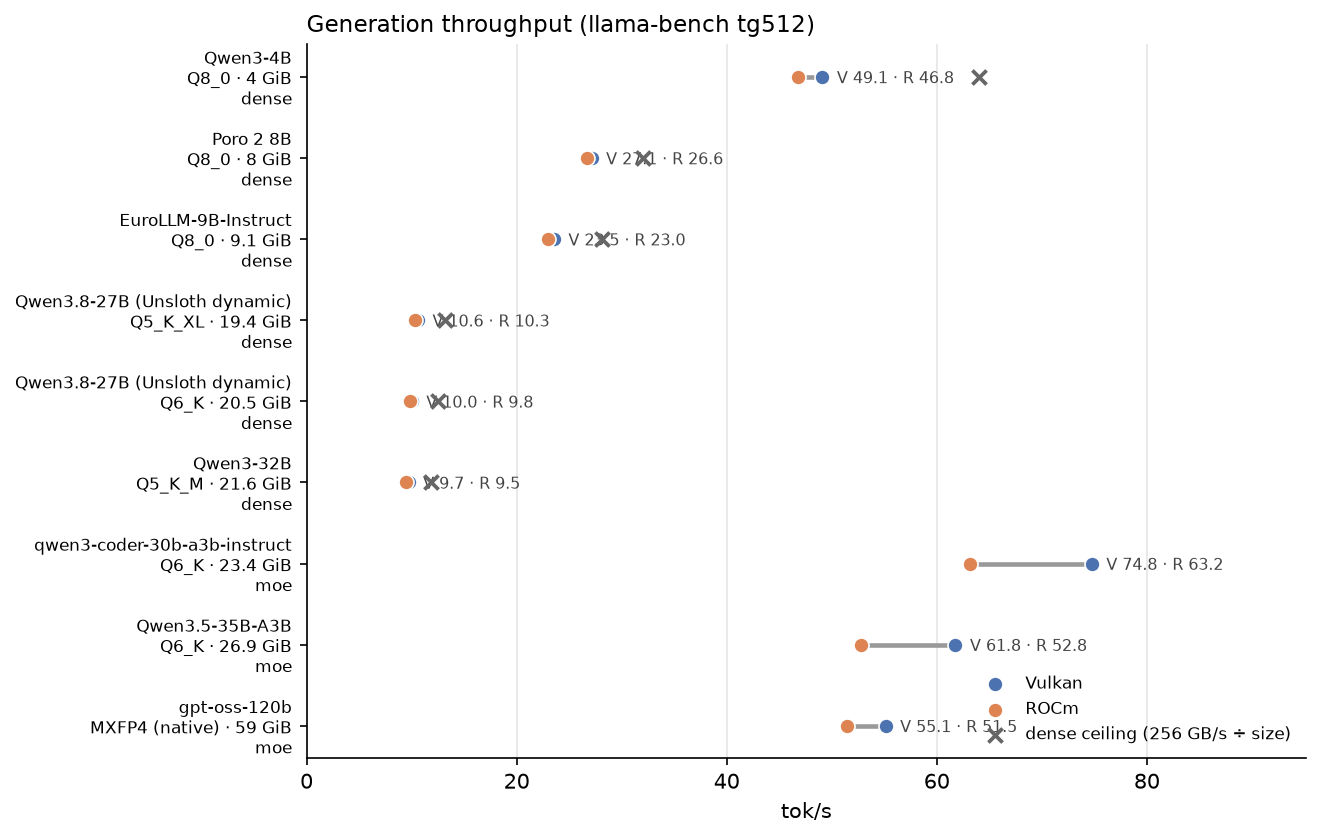
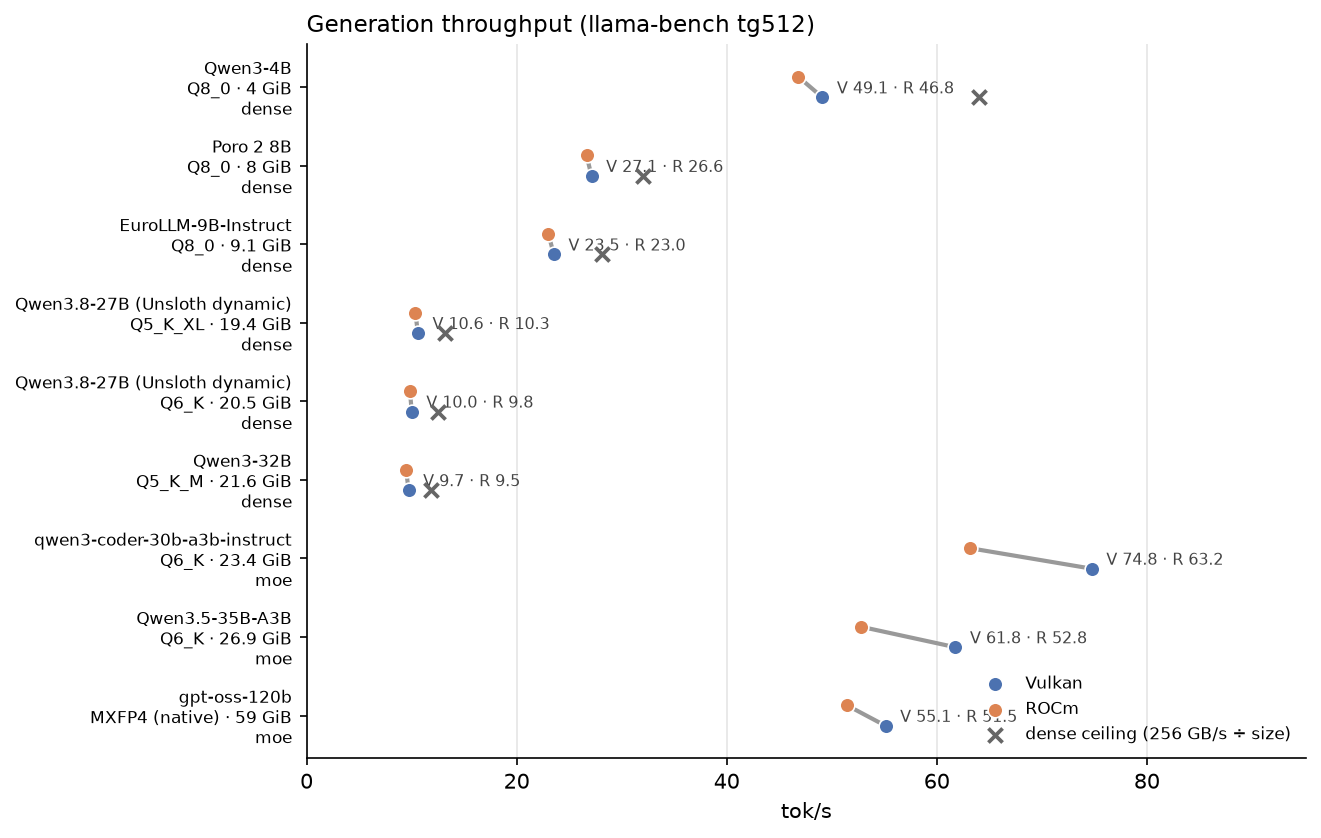
charts: offset the backends so a coincident pair cannot hide a series
Verified by decoding the PNGs: with both dots on the row centre,
tokens_per_watt.png drew 121 px of the Vulkan colour against 1049 px of ROCm —
Poro 2 8B (0.31 tok/s/W on both backends) and Qwen3-32B (0.11 on both) had the
ROCm dot sitting exactly on top of the Vulkan one. On a chart meant to compare
two backends that reads as "only ROCm was measured".

Vulkan now sits a fixed offset above the row centre, ROCm below, with the
connector joining the two dots, so the backend reads positionally as well as by
colour. After the fix every chart draws both series symmetrically (1130/1130 px
generation, 979/979 tokens-per-watt). tests/test_charts.py gains a case that
plots a coincident pair and asserts the two dots do not share a y.

diff --git a/scripts/make_charts.py b/scripts/make_charts.py
@@ -86,6 +86,13 @@ def row_label(cell, meta):
     return f"{name}\n{' · '.join(bits)}" + (f"\n{tier}" if tier in ("moe", "dense") else "")
 
 
+# The two backends sit slightly above/below the row centre. Without the offset a
+# coincident pair (Poro 2 8B is 0.31 tok/s/W on both backends; Qwen3-32B 0.11 on
+# both) is drawn one dot on top of the other and the lower series disappears —
+# which reads as "only one backend was measured".
+ROW_OFFSET = 0.13
+
+
 def dumbbell(ax, vals, cells, meta, metric, fmt):
     """One row per model: Vulkan and ROCm dots joined, values printed per row."""
     y = np.arange(len(cells))
@@ -93,15 +100,14 @@ def dumbbell(ax, vals, cells, meta, metric, fmt):
         pair = [(b, vals[(cell, b)][metric]) for b in BACKENDS if metric in vals.get((cell, b), {})]
         if len(pair) < 2:
             continue
-        xs = [v for _, v in pair]
-        ax.plot([min(xs), max(xs)], [i, i], color="#999999", lw=2.2, zorder=2,
-                solid_capstyle="round")
-        for b, v in pair:
-            ax.scatter([v], [i], s=52, color=COLORS[b], zorder=3,
+        pts = [(v, i + (ROW_OFFSET if b == "vulkan" else -ROW_OFFSET)) for b, v in pair]
+        ax.plot([p[0] for p in pts], [p[1] for p in pts], color="#999999", lw=2.0,
+                zorder=2, solid_capstyle="round")
+        for (v, yy), (b, _) in zip(pts, pair):
+            ax.scatter([v], [yy], s=50, color=COLORS[b], zorder=3,
                        label=LABELS[b] if i == 0 else None, edgecolor="white", linewidth=0.8)
-        v_r = vals[(cell, "rocm")].get(metric)
-        v_v = vals[(cell, "vulkan")].get(metric)
-        ax.annotate(f"V {fmt % v_v} · R {fmt % v_r}", (max(xs), i),
+        xs = [v for _, v in pair]
+        ax.annotate(f"V {fmt % pair[0][1]} · R {fmt % pair[1][1]}", (max(xs), i),
                     textcoords="offset points", xytext=(7, -3), fontsize=7.5,
                     color="#444444")
 
@@ -113,8 +119,8 @@ def dumbbell(ax, vals, cells, meta, metric, fmt):
         size = meta[cell].get("size_gib")
         if not size:
             continue
-        ax.scatter([CEILING_BW / size], [i], marker="x", s=46, color=CEILING_COLOR,
-                   zorder=4, linewidths=1.8,
+        ax.scatter([CEILING_BW / size], [i + ROW_OFFSET], marker="x", s=46,
+                   color=CEILING_COLOR, zorder=4, linewidths=1.8,
                    label="dense ceiling (256 GB/s ÷ size)" if first else None)
         first = False
 

diff --git a/tests/test_charts.py b/tests/test_charts.py
@@ -72,6 +72,24 @@ class ChartDataTest(unittest.TestCase):
                     self.assertIn(metric, self.vals[(cell, backend)],
                                   f"{cell}/{backend} lacks {metric}")
 
+    def test_coincident_backends_are_not_drawn_on_top_of_each_other(self):
+        """Equal values must not hide a series.
+
+        Poro 2 8B measures 0.31 tok/s/W on both backends and Qwen3-32B 0.11 on
+        both; with both dots on the row centre the upper one vanished and the
+        chart read as if only one backend had been measured.
+        """
+        import matplotlib.pyplot as plt
+
+        vals = {("c", "vulkan"): {"m": 1.0}, ("c", "rocm"): {"m": 1.0}}
+        meta = {"c": {"model": "x", "quant": "q", "size_gib": 1.0, "arch": "moe"}}
+        fig, ax = plt.subplots()
+        make_charts.dumbbell(ax, vals, ["c"], meta, "m", "%.2f")
+        ys = {round(float(off[1]), 3) for coll in ax.collections
+              for off in coll.get_offsets()}
+        plt.close(fig)
+        self.assertEqual(len(ys), 2, f"both backends drawn at one y: {ys}")
+
     def test_main_writes_all_charts_as_real_pngs(self):
         """End-to-end, into a temp dir so the tracked PNGs are never touched."""
         with tempfile.TemporaryDirectory() as tmp:
